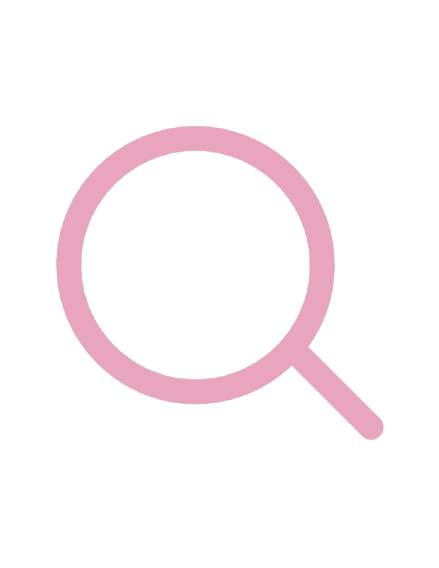
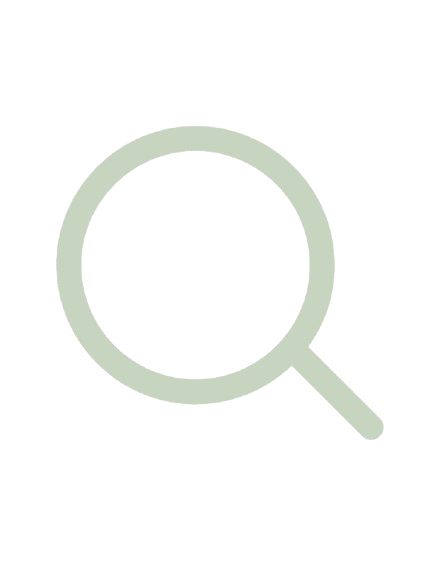
more changes

Changed region(s): [[0.1185, 0.2095, 0.8884, 0.7782]]

diff --git a/script.js b/script.js
@@ -1,3 +1,7 @@
+const API_KEY = "AIzaSyD2PrlmK5m89d8fNjkrYVTCe0JdVJkBqvc";
+
+let selectedBook = null;
+
 async function searchBooks() {
 
     const searchInput = document.getElementById("bookSearch").value.trim();
@@ -14,12 +18,11 @@ async function searchBooks() {
 
         const url = "https://www.googleapis.com/books/v1/volumes?q="
             + encodeURIComponent(searchInput)
-            + "&maxResults=20";
+            + "&maxResults=20"
+            + "&key=" + API_KEY;
 
         const response = await fetch(url);
         const data = await response.json();
-
-        console.log(data);
 
         if (!response.ok) {
             results.innerHTML = "API Error: " + (data.error?.message || response.status);
@@ -42,23 +45,40 @@ async function searchBooks() {
 
             const cover = document.createElement("img");
 
-            if (info.imageLinks) {
-                cover.src = info.imageLinks.thumbnail;
-            }
-
+            cover.src = info.imageLinks?.thumbnail || "";
             cover.alt = info.title || "Book cover";
 
             const title = document.createElement("h3");
             title.textContent = info.title || "Untitled";
 
-            const author = document.createElement("p");
-            author.textContent = info.authors
-                ? info.authors.join(", ")
-                : "Unknown author";
+            // TITLE AND PLUS BUTTON
+            const bookInfo = document.createElement("div");
+            bookInfo.className = "book-info-row";
+
+            const addButton = document.createElement("button");
+            addButton.className = "add-button";
+            addButton.textContent = "+";
+            addButton.title = "Add to Wishlist";
+
+            addButton.addEventListener("click", (event) => {
+                event.stopPropagation();
+                addToWishlist(book);
+            });
+
+            bookInfo.appendChild(title);
+            bookInfo.appendChild(addButton);
+            cover.addEventListener("click", () => {
+                openBookModal(book);
+            });
+
+            title.addEventListener("click", () => {
+                openBookModal(book);
+            });
+
+            title.style.cursor = "pointer";
 
             bookCard.appendChild(cover);
-            bookCard.appendChild(title);
-            bookCard.appendChild(author);
+            bookCard.appendChild(bookInfo);
 
             results.appendChild(bookCard);
 
@@ -71,3 +91,83 @@ async function searchBooks() {
 
     }
 }
+
+function openBookModal(book) {
+
+    selectedBook = book;
+
+    const info = book.volumeInfo;
+
+    document.getElementById("modalImage").src =
+        info.imageLinks?.thumbnail || "";
+
+    document.getElementById("modalTitle").textContent =
+        info.title || "Untitled";
+
+    document.getElementById("modalSummary").textContent =
+        info.description || "Sorry! No summary is available for this book.";
+
+    document.getElementById("bookModal").style.display = "flex";
+
+}
+
+function closeBookModal() {
+
+    document.getElementById("bookModal").style.display = "none";
+
+}
+
+function addToWishlist(book) {
+
+    let wishlist = JSON.parse(localStorage.getItem("wishlistBooks")) || [];
+
+    if (wishlist.some(item => item.id === book.id)) {
+        alert("This book is already in your Wishlist!");
+        return;
+    }
+
+    const info = book.volumeInfo;
+
+    const bookData = {
+        id: book.id,
+        title: info.title || "Untitled",
+        image: info.imageLinks?.thumbnail || "",
+        description: info.description || "No summary available."
+    };
+
+    wishlist.push(bookData);
+
+    localStorage.setItem("wishlistBooks", JSON.stringify(wishlist));
+
+    alert("Added to your Wishlist!");
+
+}
+
+
+document.getElementById("modalAddButton").addEventListener("click", () => {
+
+    if (selectedBook) {
+        addToWishlist(selectedBook);
+    }
+
+});
+
+
+
+document.getElementById("bookModal").addEventListener("click", (event) => {
+
+    if (event.target.id === "bookModal") {
+        closeBookModal();
+    }
+
+});
+
+
+
+document.getElementById("bookSearch").addEventListener("keydown", (event) => {
+
+    if (event.key === "Enter") {
+        searchBooks();
+    }
+
+});

diff --git a/style.css b/style.css
@@ -162,28 +162,147 @@ header h1 {
 
 .book-container {
     display: grid;
-    grid-template-columns: repeat(auto-fill, minmax(180px, 1fr));
-    gap: 25px;
-    margin: 40px;
+    grid-template-columns: repeat(3, 1fr);
+    gap: 30px;
+    margin: 40px auto;
+    max-width: 1100px;
+    padding: 0 25px;
 }
 
 .book-card {
     text-align: center;
-    padding: 15px;
-    border-radius: 15px;
+    padding: 18px;
+    border-radius: 18px;
     background-color: #ffe1eb;
+    transition: transform 0.3s ease;
+}
+
+.book-card:hover {
+    transform: translateY(-5px);
 }
 
 .book-card img {
-    height: 220px;
-    max-width: 150px;
+    height: 240px;
+    max-width: 100%;
     object-fit: contain;
+    cursor: pointer;
+    border-radius: 5px;
 }
 
 .book-card h3 {
     font-family: 'Crafty Girls', cursive;
+    font-size: 22px;
+    margin-top: 12px;
 }
 
 .book-card p {
     font-family: 'Crafty Girls', cursive;
+}
+
+/* BOOK TITLE AND PLUS BUTTON */
+
+.book-info-row {
+    display: flex;
+    justify-content: space-between;
+    align-items: center;
+    gap: 10px;
+    margin-top: 12px;
+}
+
+.add-button {
+    border: none;
+    background-color: #C7D5C0;
+    color: white;
+    border-radius: 50%;
+    width: 38px;
+    height: 38px;
+    font-size: 25px;
+    cursor: pointer;
+    flex-shrink: 0;
+}
+
+.add-button:hover {
+    transform: scale(1.12);
+}
+
+/* BOOK SUMMARY POPUP */
+
+.book-modal {
+    display: none;
+    position: fixed;
+    inset: 0;
+    background: rgba(50, 45, 40, 0.55);
+    justify-content: center;
+    align-items: center;
+    padding: 20px;
+    z-index: 1000;
+}
+
+.book-modal-content {
+    background-color: #F8F5EE;
+    border-radius: 20px;
+    padding: 30px;
+    max-width: 650px;
+    width: 100%;
+    display: flex;
+    align-items: center;
+    gap: 25px;
+    position: relative;
+}
+
+.book-modal-content img {
+    width: 180px;
+    max-height: 270px;
+    object-fit: contain;
+}
+
+.modal-text h2 {
+    font-size: 28px;
+    margin-bottom: 15px;
+}
+
+.modal-text p {
+    font-size: 17px;
+    line-height: 1.6;
+}
+
+.close-modal {
+    position: absolute;
+    top: 10px;
+    right: 18px;
+    border: none;
+    background: none;
+    font-size: 32px;
+    cursor: pointer;
+    color: #594638;
+}
+
+.add-wishlist {
+    margin-top: 20px;
+    padding: 12px 18px;
+    background-color: #C7D5C0;
+    color: white;
+    border: none;
+    border-radius: 12px;
+    font-family: 'Crafty Girls', cursive;
+    font-size: 17px;
+    cursor: pointer;
+}
+
+
+@media (max-width: 700px) {
+    .book-container {
+        grid-template-columns: repeat(2, 1fr);
+    }
+}
+
+@media (max-width: 450px) {
+    .book-container {
+        grid-template-columns: 1fr;
+    }
+
+    .book-modal-content {
+        flex-direction: column;
+        text-align: center;
+    }
 }

diff --git a/discover.html b/discover.html
@@ -2,19 +2,18 @@
 <html lang="en">
 
 <head>
+    <meta charset="UTF-8">
+    <meta name="viewport" content="width=device-width, initial-scale=1.0">
+
     <link rel="preconnect" href="https://fonts.googleapis.com">
     <link rel="preconnect" href="https://fonts.gstatic.com" crossorigin>
     <link href="https://fonts.googleapis.com/css2?family=Crafty+Girls&display=swap" rel="stylesheet">
 
-    <meta charset="UTF-8">
-    <meta http-equiv="X-UA-Compatible" content="IE=edge">
-    <meta name="viewport" content="width=device-width, initial-scale=1.0">
-
     <title>Discover</title>
 
     <link rel="stylesheet" href="style.css">
+    <script src="script.js" defer></script>
 </head>
-<script src="script.js"></script>
 
 <body>
 
@@ -56,16 +55,15 @@
             </div>
 
             <div class="search-bar">
-
                 <input
                     type="text"
                     id="bookSearch"
+                    placeholder="Search for a book..."
                 >
 
                 <button onclick="searchBooks()" class="search-button">
                     <img src="images/search.png" alt="Search">
                 </button>
-
             </div>
 
             <div id="results" class="book-container"></div>
@@ -73,6 +71,27 @@
         </section>
 
     </main>
+
+    <div id="bookModal" class="book-modal">
+
+        <div class="book-modal-content">
+
+            <button class="close-modal" onclick="closeBookModal()">×</button>
+
+            <img id="modalImage" src="" alt="Book cover">
+
+            <div class="modal-text">
+                <h2 id="modalTitle"></h2>
+                <p id="modalSummary"></p>
+
+                <button id="modalAddButton" class="add-wishlist">
+                    + Add to Wishlist
+                </button>
+            </div>
+
+        </div>
+
+    </div>
 
 </body>
 </html>
